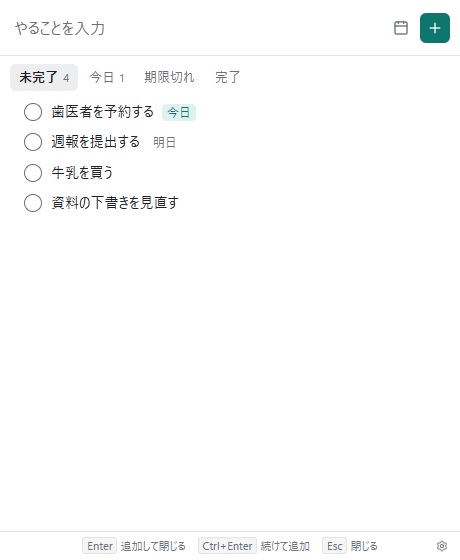
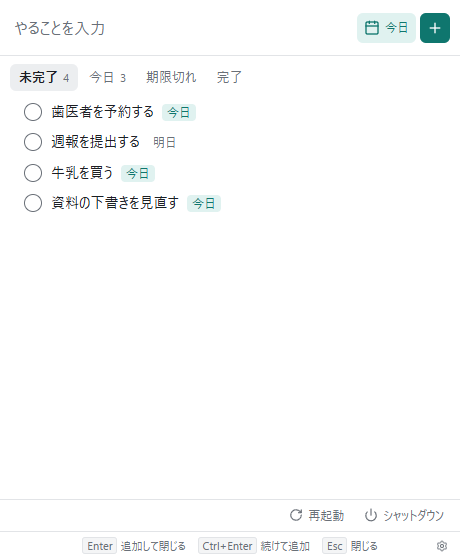
v0.3.0 の案内

diff --git a/README.md b/README.md
@@ -25,13 +25,23 @@
 | 閉じる | `Esc`（別の場所をクリックしても閉じます） |
 
 - 編集はタイトルのダブルクリック、並べ替えは行のドラッグで行います。
-- 期限はカレンダーのアイコンから設定し、「今日」「期限切れ」のタブで絞り込めます。
+- 期限を指定せずに追加すると、期限は今日になります。ほかの日や「期限なし」は、カレンダーのアイコンから選びます。「今日」「期限切れ」のタブで絞り込めます。
 - 完了や削除のあと、数秒間は「元に戻す」が使えます。
 - 設定は右下の歯車から開きます。終了はタスクトレイのアイコンの右クリックから行います。
 
+## PC の再起動とシャットダウン
+
+右下の「再起動」から PC を再起動できます。シャットダウンのボタンは、設定の「シャットダウンのボタンも表示する」をオンにすると出ます（シャットダウンを禁止している PC があるため、既定では出しません）。
+
+実行の前に確認の画面が出ます。今日が期限のタスクや期限切れのタスクがあれば、その一覧も表示します。保存していない作業があるアプリは強制的には閉じないので、Windows の画面に従ってください。
+
+この確認が出るのは、このボタンを使ったときだけです。スタートメニューなどから再起動したときは出ません。
+
 ## 更新
 
-新しい版を、起動の少しあとと、その後 1 日ごとに確認します（設定で切れます）。見つかると画面の上に表示されるので、「更新する」を押すと置き換えて起動し直します。
+新しい版を、起動の少しあとと、その後 1 日ごとに確認します（設定で切れます）。確認に失敗したときは、1 時間のあいだ 5 分ごとにやり直します。
+
+見つかると Windows の通知でお知らせします。通知をクリックするか呼び出すと画面の上に案内が出ているので、「更新する」を押すと置き換えて起動し直します。Windows の「応答不可」がオンのときはポップアップにならず、通知センターに入ります。
 
 通信は Windows の機能（WinINet）で行うので、ブラウザと同じプロキシの設定で動きます。ログオン情報で通れないプロキシでは、手動で確認したときや更新するときに Windows の入力画面が出ます。
 
